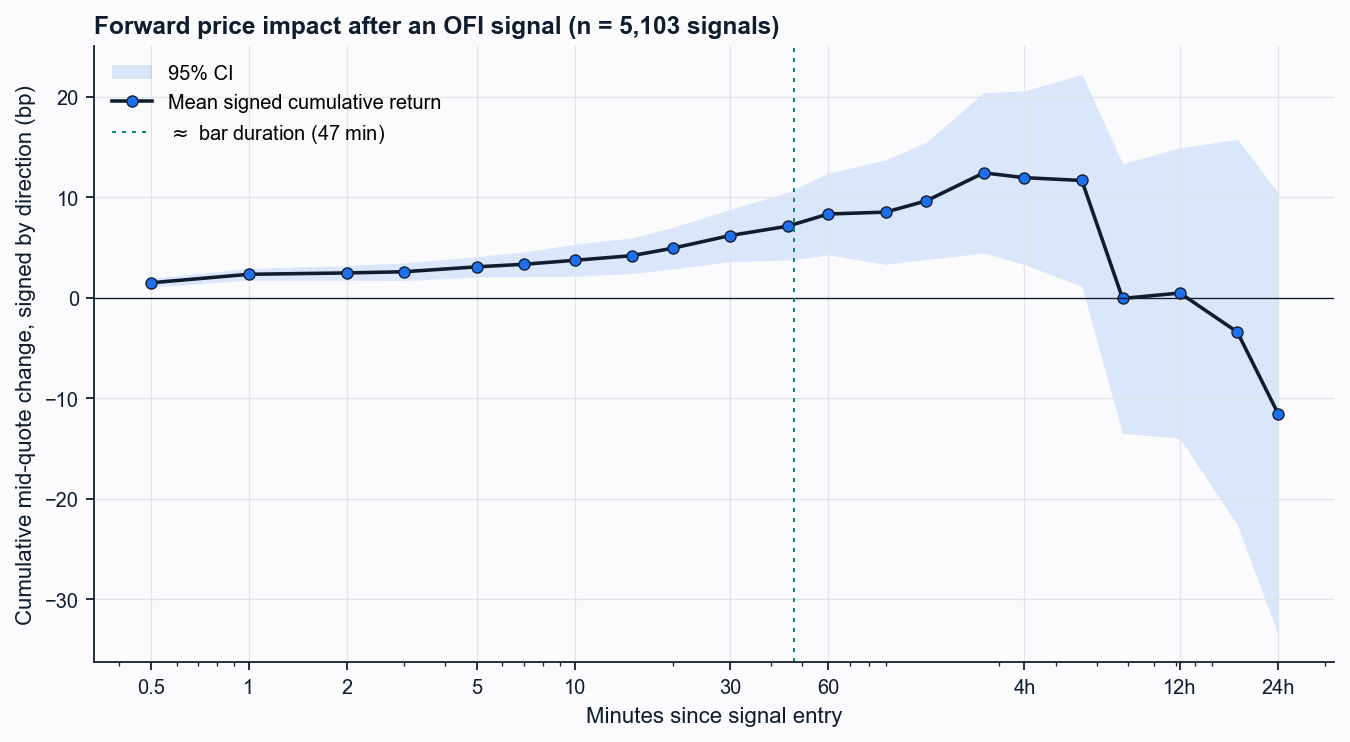
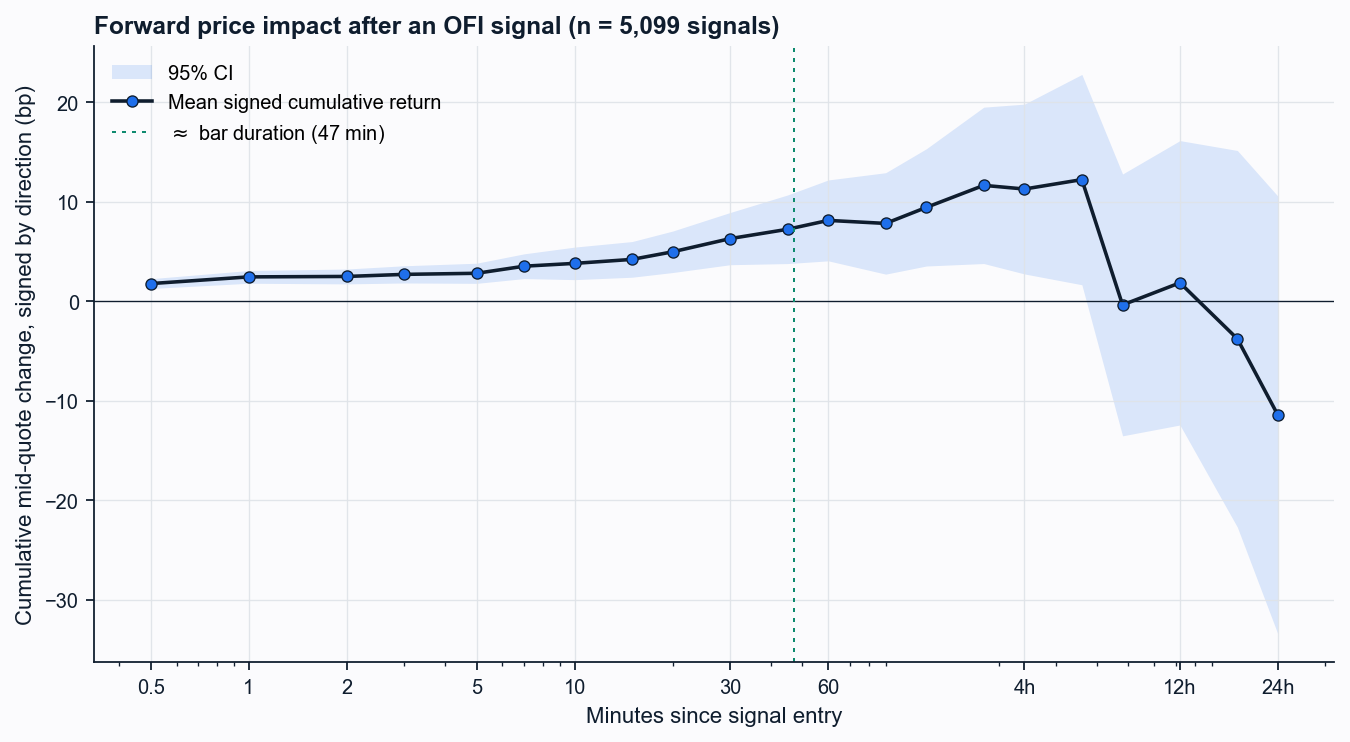
Fix reversal claim, citations

diff --git a/eth/paper/eth_ofi_signal.tex b/eth/paper/eth_ofi_signal.tex
@@ -26,12 +26,12 @@
 \maketitle
 
 \begin{abstract}
-\noindent We study Order Flow Imbalance (Cont, Kukanov, and Stoikov, 2014) on CME Ether futures over February 2021 to August 2026. On 28{,}711 out-of-sample dollar-volume bars (January 2024 to August 2026), an OLS regression of bar mid-quote change on contemporaneous OFI with Newey-West HAC standard errors yields $\hat{\beta} = +0.215$ ($t = 58.1$, $R^2 = 0.30$). The relationship holds on 3{,}162 bars observed after the analysis was completed and frozen, at $\hat{\beta} = +0.097$ ($t = 36.2$, $R^2 = 0.42$). Measured directly from the raw tick stream and anchored at the first instant the signal is observable, the signal's forward impact rises over the first minutes, peaks near +11.3 bp at four hours, and reverses within a day; every horizon out to four hours is significant under a by-day block bootstrap. A sign-randomised placebo at the same timestamps stays within $\pm 1.3$ bp of zero at every horizon. The predictable move is nonetheless comparable to the cost of capturing it: the contract's quoted spread runs 10 to 30 ticks against a four-hour peak of roughly 11 bp, so OFI is informative about price on this contract without being straightforwardly tradable.
+\noindent We study Order Flow Imbalance (Cont, Kukanov, and Stoikov, 2014) on CME Ether futures over February 2021 to August 2026. On 28{,}711 out-of-sample dollar-volume bars (January 2024 to August 2026), an OLS regression of bar mid-quote change on contemporaneous OFI with Newey-West HAC standard errors yields $\hat{\beta} = +0.215$ ($t = 58.1$, $R^2 = 0.30$). The relationship holds on 3{,}162 bars observed after the analysis was completed and frozen, at $\hat{\beta} = +0.097$ ($t = 36.2$, $R^2 = 0.42$). Measured directly from the raw tick stream and anchored at the first instant the signal is observable, the signal's forward impact rises over the first minutes, and peaks near +11.3 bp at four hours; every horizon out to that peak is significant under a by-day block bootstrap, and beyond it the signed return is not distinguishable from zero, with the point estimate turning negative by twenty-four hours. A sign-randomised placebo at the same timestamps stays within $\pm 1.3$ bp of zero at every horizon. The predictable move is nonetheless comparable to the cost of capturing it: the contract's quoted spread runs 10 to 30 ticks against a four-hour peak of roughly 11 bp, so OFI is informative about price on this contract without being straightforwardly tradable.
 \end{abstract}
 
 \section{Introduction}
 
-Order Flow Imbalance (OFI), introduced by Cont, Kukanov, and Stoikov (2014), aggregates best-bid and best-offer quote arrivals into a signed measure of top-of-book pressure. The construction builds on the information-asymmetry mechanism of Hasbrouck (1991) and the flow-toxicity work of Easley, Lopez de Prado, and O'Hara (2012); the associated price-impact theory is reviewed in Bouchaud, Farmer, and Lillo (2009). On liquid US equities, contemporaneous OFI explains roughly two-thirds of bar-level mid-quote variation. The cryptocurrency evidence is thinner: Silantyev (2019) finds trade-flow imbalance dominates short-horizon prices on BitMEX XBT/USD, and Bieganowski and Ślepaczuk (2026) report OFI as the top SHAP feature in CatBoost ensembles on Binance Futures perpetuals. CME's Ether contract sits between these regimes: a regulated venue with thinner top-of-book depth than the equity tape and a higher tick-relative spread than either. The OFI literature has not addressed it directly; the closest crypto context is Makarov and Schoar (2020) on cross-venue arbitrage and Aleti and Mizrach (2021) on Bitcoin spot-futures integration.
+Order Flow Imbalance (OFI), introduced by Cont, Kukanov, and Stoikov (2014), aggregates best-bid and best-offer quote arrivals into a signed measure of top-of-book pressure. On liquid US equities, contemporaneous OFI explains roughly two-thirds of bar-level mid-quote variation (Cont, Kukanov, and Stoikov, 2014). The cryptocurrency evidence is thinner: Silantyev (2019) finds trade-flow imbalance dominates short-horizon prices on BitMEX XBT/USD, and Bieganowski and Ślepaczuk (2026) report OFI as the top SHAP feature in CatBoost ensembles on Binance Futures perpetuals. CME's Ether contract sits between these regimes: a regulated venue with thinner top-of-book depth than the equity tape and a higher tick-relative spread than either. The OFI literature has not addressed it directly; the closest crypto context is Makarov and Schoar (2020) on cross-venue arbitrage and Aleti and Mizrach (2021) on Bitcoin spot-futures integration.
 
 This paper estimates the contemporaneous OFI signal-impact on CME ETH futures from February 2021 to August 2026 and characterises how that impact decays. The construction is the level-1 (best bid / best offer) form of Cont, Kukanov, and Stoikov on dollar-volume bars built from TBBO (trade-sampled top-of-book) events (Lopez de Prado, 2018). Forward signal-impact is characterised at sub-bar to 24-hour horizons; the bar regression alone cannot resolve the decay structure, which is what determines whether the relationship is economically usable at all.
 
@@ -105,7 +105,7 @@ The OOS regression has a positive contemporaneous term $\beta_0 = +0.215$ (Figur
 
 The out-of-sample window above is a split of data available when the analysis was built. As a stricter check, the estimation was frozen and the panel was then extended with 3{,}162 bars covering 2026-04-28 to 2026-08-28, a period that did not exist when the specification was fixed. On that window alone the contemporaneous coefficient is $\hat\beta_0 = +0.097$ with HAC $t = 36.2$ and $R^2 = 0.42$.
 
-The coefficient is smaller and the fit is tighter than in the earlier window. Both are consistent with a deeper book: a given quantity of signed flow moves the price less, and explains more of what movement there is. The sign, the significance, and the broad magnitude of the relationship survive on data the specification never saw.
+The coefficient is smaller and the fit is tighter than in the earlier window. The fall in $\hat\beta_0$ is largely a change of scale rather than of economic content: $O_t$ is an unnormalised sum of contract quantities, and its standard deviation rises by a factor of $1.5$ across the two windows while the price level falls, so the price move per unit of raw flow declines mechanically. Expressed per standard deviation of flow, contemporaneous impact is $28.1$ bp in the earlier window against $32.2$ bp in the forward window. The sign, the significance, and the economic magnitude of the relationship survive on data the specification never saw.
 
 \subsection{Signal decay profile}
 \label{sec:decay}
@@ -160,7 +160,7 @@ Posting passively rather than crossing avoids the spread but introduces adverse 
 
 \section{Conclusion}
 
-The OFI signal is present on CME Ether futures at HAC $t = 58.1$ OOS and holds at $t = 36.2$ on data observed after the specification was frozen. The main empirical contribution is the decay profile, significant at every horizon out to the four-hour peak and flat under a sign-randomised placebo. The predictable move is comparable to the quoted spread, so the relationship is informative about price formation without being straightforwardly tradable.
+The OFI signal is present on CME Ether futures at HAC $t = 58.1$ OOS and holds at $t = 36.2$ on data observed after the specification was frozen. The main empirical contribution is the decay profile, significant at every horizon out to the four-hour peak, flat under a sign-randomised placebo, and indistinguishable from zero beyond the peak. The predictable move is comparable to the quoted spread, so the relationship is informative about price formation without being straightforwardly tradable.
 
 The construction is level-1 only: the TBBO source carries the touch and trades but not deeper book levels, so the deeper-book dynamics that the original equity result relies on cannot be measured here. TBBO is also trade-sampled, meaning the book is observed only when a trade prints; the median gap between an event and the preceding quote observation is roughly nine seconds, and any measurement anchored on this tape inherits that granularity. A quote-level feed would sharpen the sub-minute horizons and permit a proper treatment of execution, which is the natural extension.
 
@@ -170,10 +170,7 @@ The construction is level-1 only: the TBBO source carries the touch and trades b
     \setlength{\itemsep}{0.2em}
     \item Aleti, S. and Mizrach, B. (2021). Bitcoin spot and futures market microstructure. \textit{Journal of Futures Markets}, 41(2), 194--225.
     \item Bieganowski, B. and Ślepaczuk, R. (2026). Explainable patterns in cryptocurrency microstructure. arXiv:2602.00776.
-    \item Bouchaud, J.-P., Farmer, J.~D., and Lillo, F. (2009). How markets slowly digest changes in supply and demand. In \textit{Handbook of Financial Markets: Dynamics and Evolution}, 57--160.
     \item Cont, R., Kukanov, A., and Stoikov, S. (2014). The price impact of order book events. \textit{Journal of Financial Econometrics}, 12(1), 47--88.
-    \item Easley, D., Lopez de Prado, M., and O'Hara, M. (2012). Flow toxicity and liquidity in a high-frequency world. \textit{Review of Financial Studies}, 25(5), 1457--1493.
-    \item Hasbrouck, J. (1991). Measuring the information content of stock trades. \textit{Journal of Finance}, 46(1), 179--207.
     \item Lopez de Prado, M. (2018). \textit{Advances in Financial Machine Learning}. Wiley.
     \item Makarov, I. and Schoar, A. (2020). Trading and arbitrage in cryptocurrency markets. \textit{Journal of Financial Economics}, 135(2), 293--319.
     \item Newey, W.~K. and West, K.~D. (1987). A simple, positive semi-definite, heteroskedasticity and autocorrelation consistent covariance matrix. \textit{Econometrica}, 55(3), 703--708.
